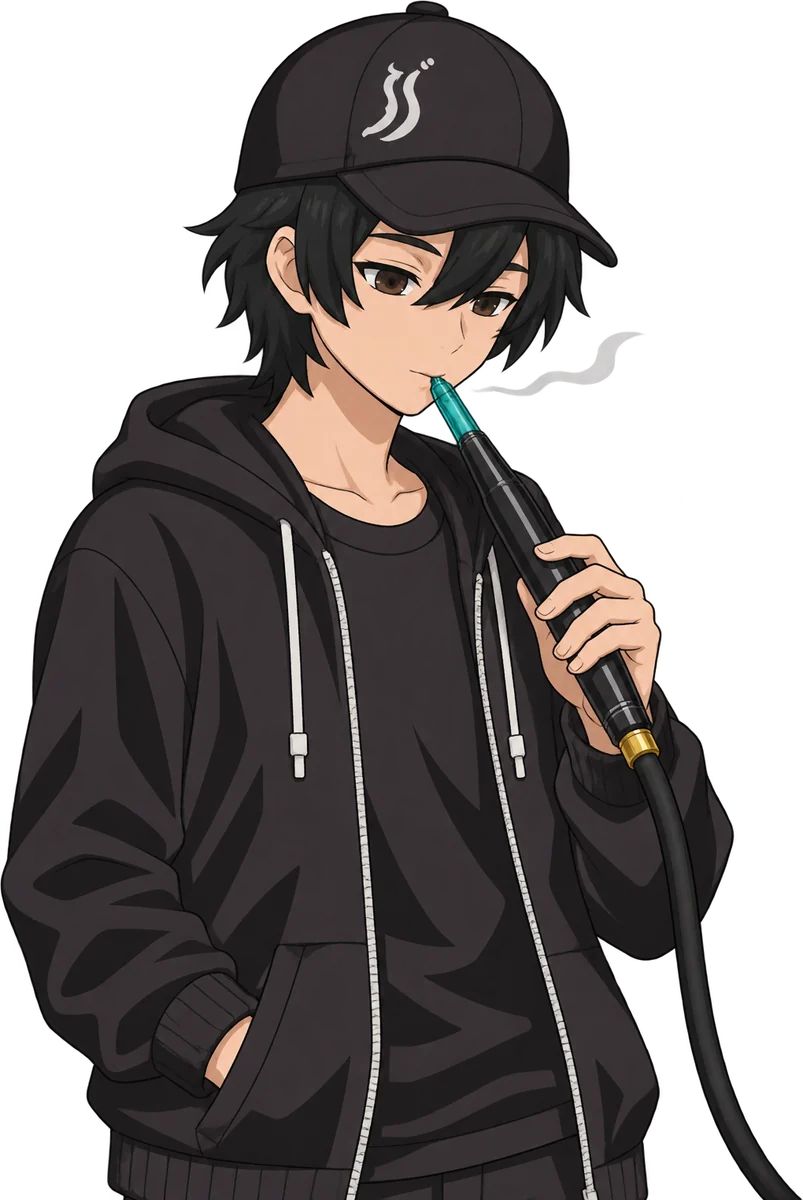
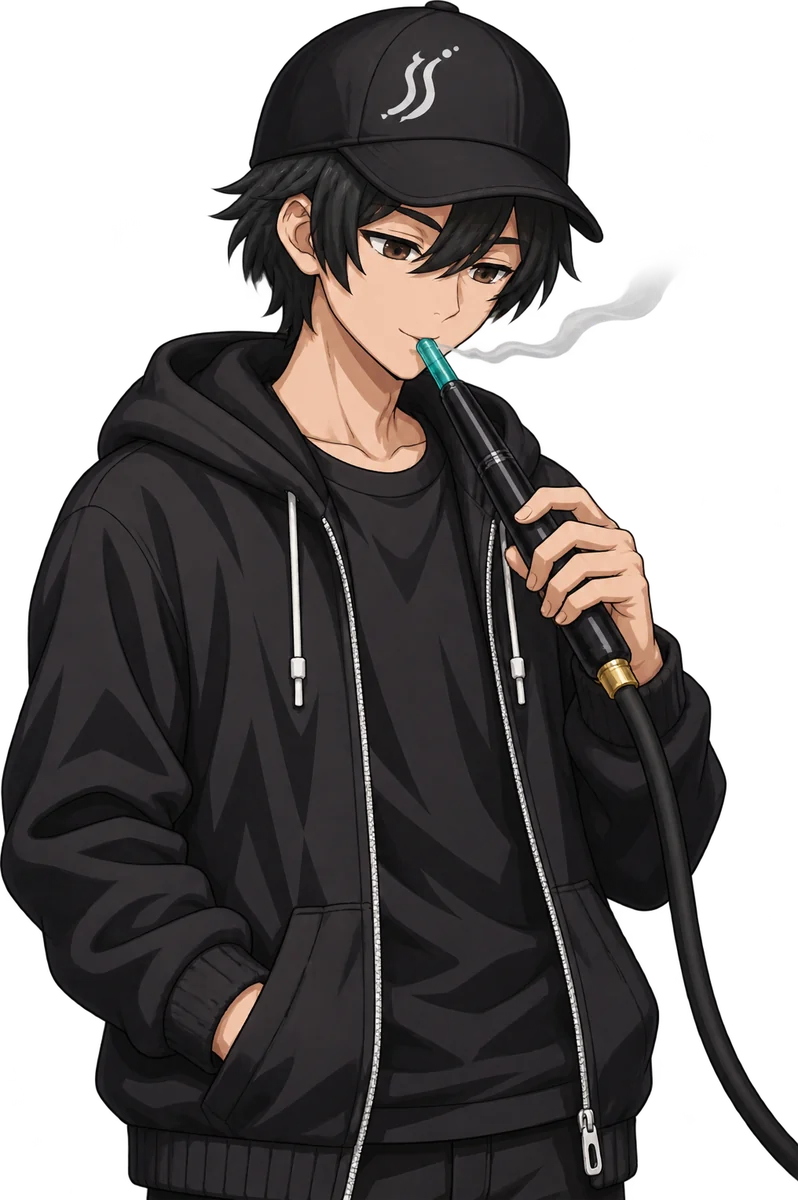
縦画面試作: 吸い出しのはじめを、新バージョンと現行の立ち絵を参考に作り直す
- オーナー「吸ってる時のはじめのデザインは新バージョンと一つ前のやつを参考に　現行ってバージョン」（VPL49）
- 新バージョンと現行の立ち絵2枚とマウスピースの絵を入力にした編集。服装・ネックレスなしは新バージョン、顔立ちと陰影の細かさは現行に寄せた。背景なし、マウスピースは正しい向き

Claude-Session: https://claude.ai/code/session_01ACPhX2pZovJZmK6wj7bKg3

Changed region(s): [[0.0, 0.0, 1.0, 1.0], [0.6316, 0.8325, 0.6617, 0.8633]]

diff --git a/asset_sources/ui/portrait-stage-20261127/README.md b/asset_sources/ui/portrait-stage-20261127/README.md
@@ -267,7 +267,7 @@ bowl_firm: Fill this same bowl densely with moist shredded shisha tobacco presse
 オーナー「シーシャの葉っぱの見た目は写真チックにリアルに　実際に調べて　なんか今ミミズみたいに見えるから」「吸ってる姿は背景はその場に応じて変えれるように　あとマウスピースの見た目が変　逆に見える　後表情も変」。
 葉の見た目は、シーシャの作り方・詰め方の解説（thehookahlab.com・hookahvault.com・iconhookah.com）で確かめた: 茎を除いて小さく刻む、ブロンドリーフは黄みの橙〜明るい茶、糖蜜とグリセリンでシロップ状にしっとり、袋から出すと塊になり、ほぐしてふんわりさせてから詰める、表面は縁の1〜2mm下で軽く平らにならす。2回目の葉は長い糸状の刻みで「ミミズ」に見えたので、「小さく不規則な葉のかけら・長い糸状にしない・しっとりした照り・小さな塊」と指定し、器は絵のまま、葉だけを写真のような質感にした。
 4枚とも、2回目の空の器（`v2/bowl-empty-original.webp`）を入力にした編集で、器の形・角度をそろえた。`bowl-partial` は葉が少なく底の穴が見える（配合で葉が入っていく途中）、`bowl-airy` は底まで覆ったふんわり（詰め方の札）。
-はじめは、正規の立ち絵と1回目のマウスピースの絵（`mouthpiece-original.webp`。ホース側が太く吸い口側が細い）を入力にした編集で、背景なしの人物だけにした。吸い口のチップを口に、ハンドルは下へ太くなり、下の金具からホースが1本出て画面の外へ。表情は立ち絵と同じ落ち着いた顔。
+はじめは、正規の立ち絵2枚（新バージョン `character_variants/new/hajime/chr_hajime_normal.webp` と、一つ前の現行 `characters/hajime/chr_hajime_normal.webp`）と1回目のマウスピースの絵（`mouthpiece-original.webp`。ホース側が太く吸い口側が細い）を入力にした編集で、背景なしの人物だけにした（オーナー「吸ってる時のはじめのデザインは新バージョンと一つ前のやつを参考に　現行ってバージョン」。服装・ネックレスなしは新バージョン、顔立ちと陰影の細かさは現行に寄せた。新バージョンだけを入力にした `hajime_pull` は使わない）。吸い口のチップを口に、ハンドルは下へ太くなり、下の金具からホースが1本出て画面の外へ。表情は立ち絵と同じ落ち着いた顔。
 
 | 原画（v3/） | 試作で使う絵（img/） | 使う所 |
 |---|---|---|
@@ -311,3 +311,14 @@ Fill this same bowl with real shisha (hookah) tobacco, rendered photorealistical
 Fill this same bowl with real shisha (hookah) tobacco, rendered photorealistically like a macro product photograph while the bowl keeps its drawn look: finely chopped tobacco leaf pieces, small irregular torn flakes about 2 to 6 mm with faint leaf veins, NOT long strands, NOT noodles, NOT worms, NOT spaghetti; Virginia blonde leaf in amber to medium-brown tones with a few darker pieces; moist and sticky with molasses and glycerin, a soft syrupy sheen, a few small loose clumps. Packing: light and fluffy, the flakes completely cover the whole floor of the bowl (no holes or floor visible) but stay loose with small air pockets, the surface softly uneven about 2 to 3 mm below the rim. Keep the bowl's shape, color, angle, size and position exactly the same. Transparent background. No foil, no charcoal, no smoke, no text.
 ```
 
+### hajime_pull2（使う方。入力: new/hajime/chr_hajime_normal.webp, characters/hajime/chr_hajime_normal.webp, ui/portrait-stage-20261127/mouthpiece-original.webp）
+
+```text
+The first and second reference images are two official versions of the same character, Hajime (the first is the new version, the second is the previous version). Draw exactly this character, keeping both references consistent: the same face and age (22-year-old young man, ordinary and friendly), short messy black hair, black baseball cap with the white smoke-line emblem, black zip hoodie with white drawstrings, black t-shirt. Follow the first reference for the outfit (no necklace) and the clean line art; use the second reference for the slightly more mature face and the richer, more detailed shading of the cloth and hair.
+The third reference image is the exact hookah hose handle to use.
+Create a new vertical game illustration of this young man only (upper body, from the head down to the waist), on a fully transparent background, taking a slow, relaxed draw from a hookah.
+The hose handle: he holds the rigid black handle from the third reference loosely in his right hand. Its orientation must be correct: the short translucent teal disposable tip (the narrow end) is at his lips, the handle becomes slightly THICKER toward the lower end, and at that lower, thicker end the brass hose adapter connects to a single soft black hose that hangs down and leaves the frame at the lower right. The handle is not reversed.
+Expression: calm and natural, the same face as the references, eyes gently open and looking slightly down toward the handle, eyebrows relaxed, lips softly closed around the tip. A thin wisp of pale smoke drifts from the corner of his mouth.
+Polished anime game illustration style with clean dark outlines and two or three tone cel shading, no airbrushed gloss.
+Do not draw: any background, a necklace, a second hose, a forked hose, the hookah body, a bowl, charcoal, text, letters, logos other than the cap emblem, watermark, frame.
+```

diff --git a/docs/owner_requests.md b/docs/owner_requests.md
@@ -110,6 +110,7 @@
 | VPL46 | 📥 受領 | オーナー「水入れはゲージはいらないけど直接ボトルにいれてやっていきたい　あとボトルの見た目は大会仕様のやつを参考に」→ 水位計はやめ、ボトルへ直接注ぐ見せ方にする。ボトルは本編の大会仕様の台を参考に作り直す |
 | VPL47 | 📥 受領 | オーナー「あとフレーバーのジャンル分けは店番ゲームと統一したい」→ 配合の葉の分け方（ジャンル）を店番ゲームと同じにする |
 | VPL48 | 📥 受領 | オーナー「フレーバーつめは再度デザイン考えて」→ 配合（葉を器へ詰める）の見せ方を考え直す |
+| VPL49 | 🔧 試作（本PR） | オーナー「吸ってる時のはじめのデザインは新バージョンと一つ前のやつを参考に　現行ってバージョン」→ 吸い出しのはじめを、新バージョンの立ち絵と一つ前の現行の立ち絵の2枚（とマウスピースの絵）を入力にして作り直した。服装・ネックレスなし・すっきりした線は新バージョン、少し大人びた顔と服・髪の陰影の細かさは現行に寄せた。背景なしの人物で、マウスピースは吸い口側が細くホース側が太い向き |
 
 ## 2026-11-27 縦画面で遊ぶレイアウトの見た目3案（VPL01〜02）
 
